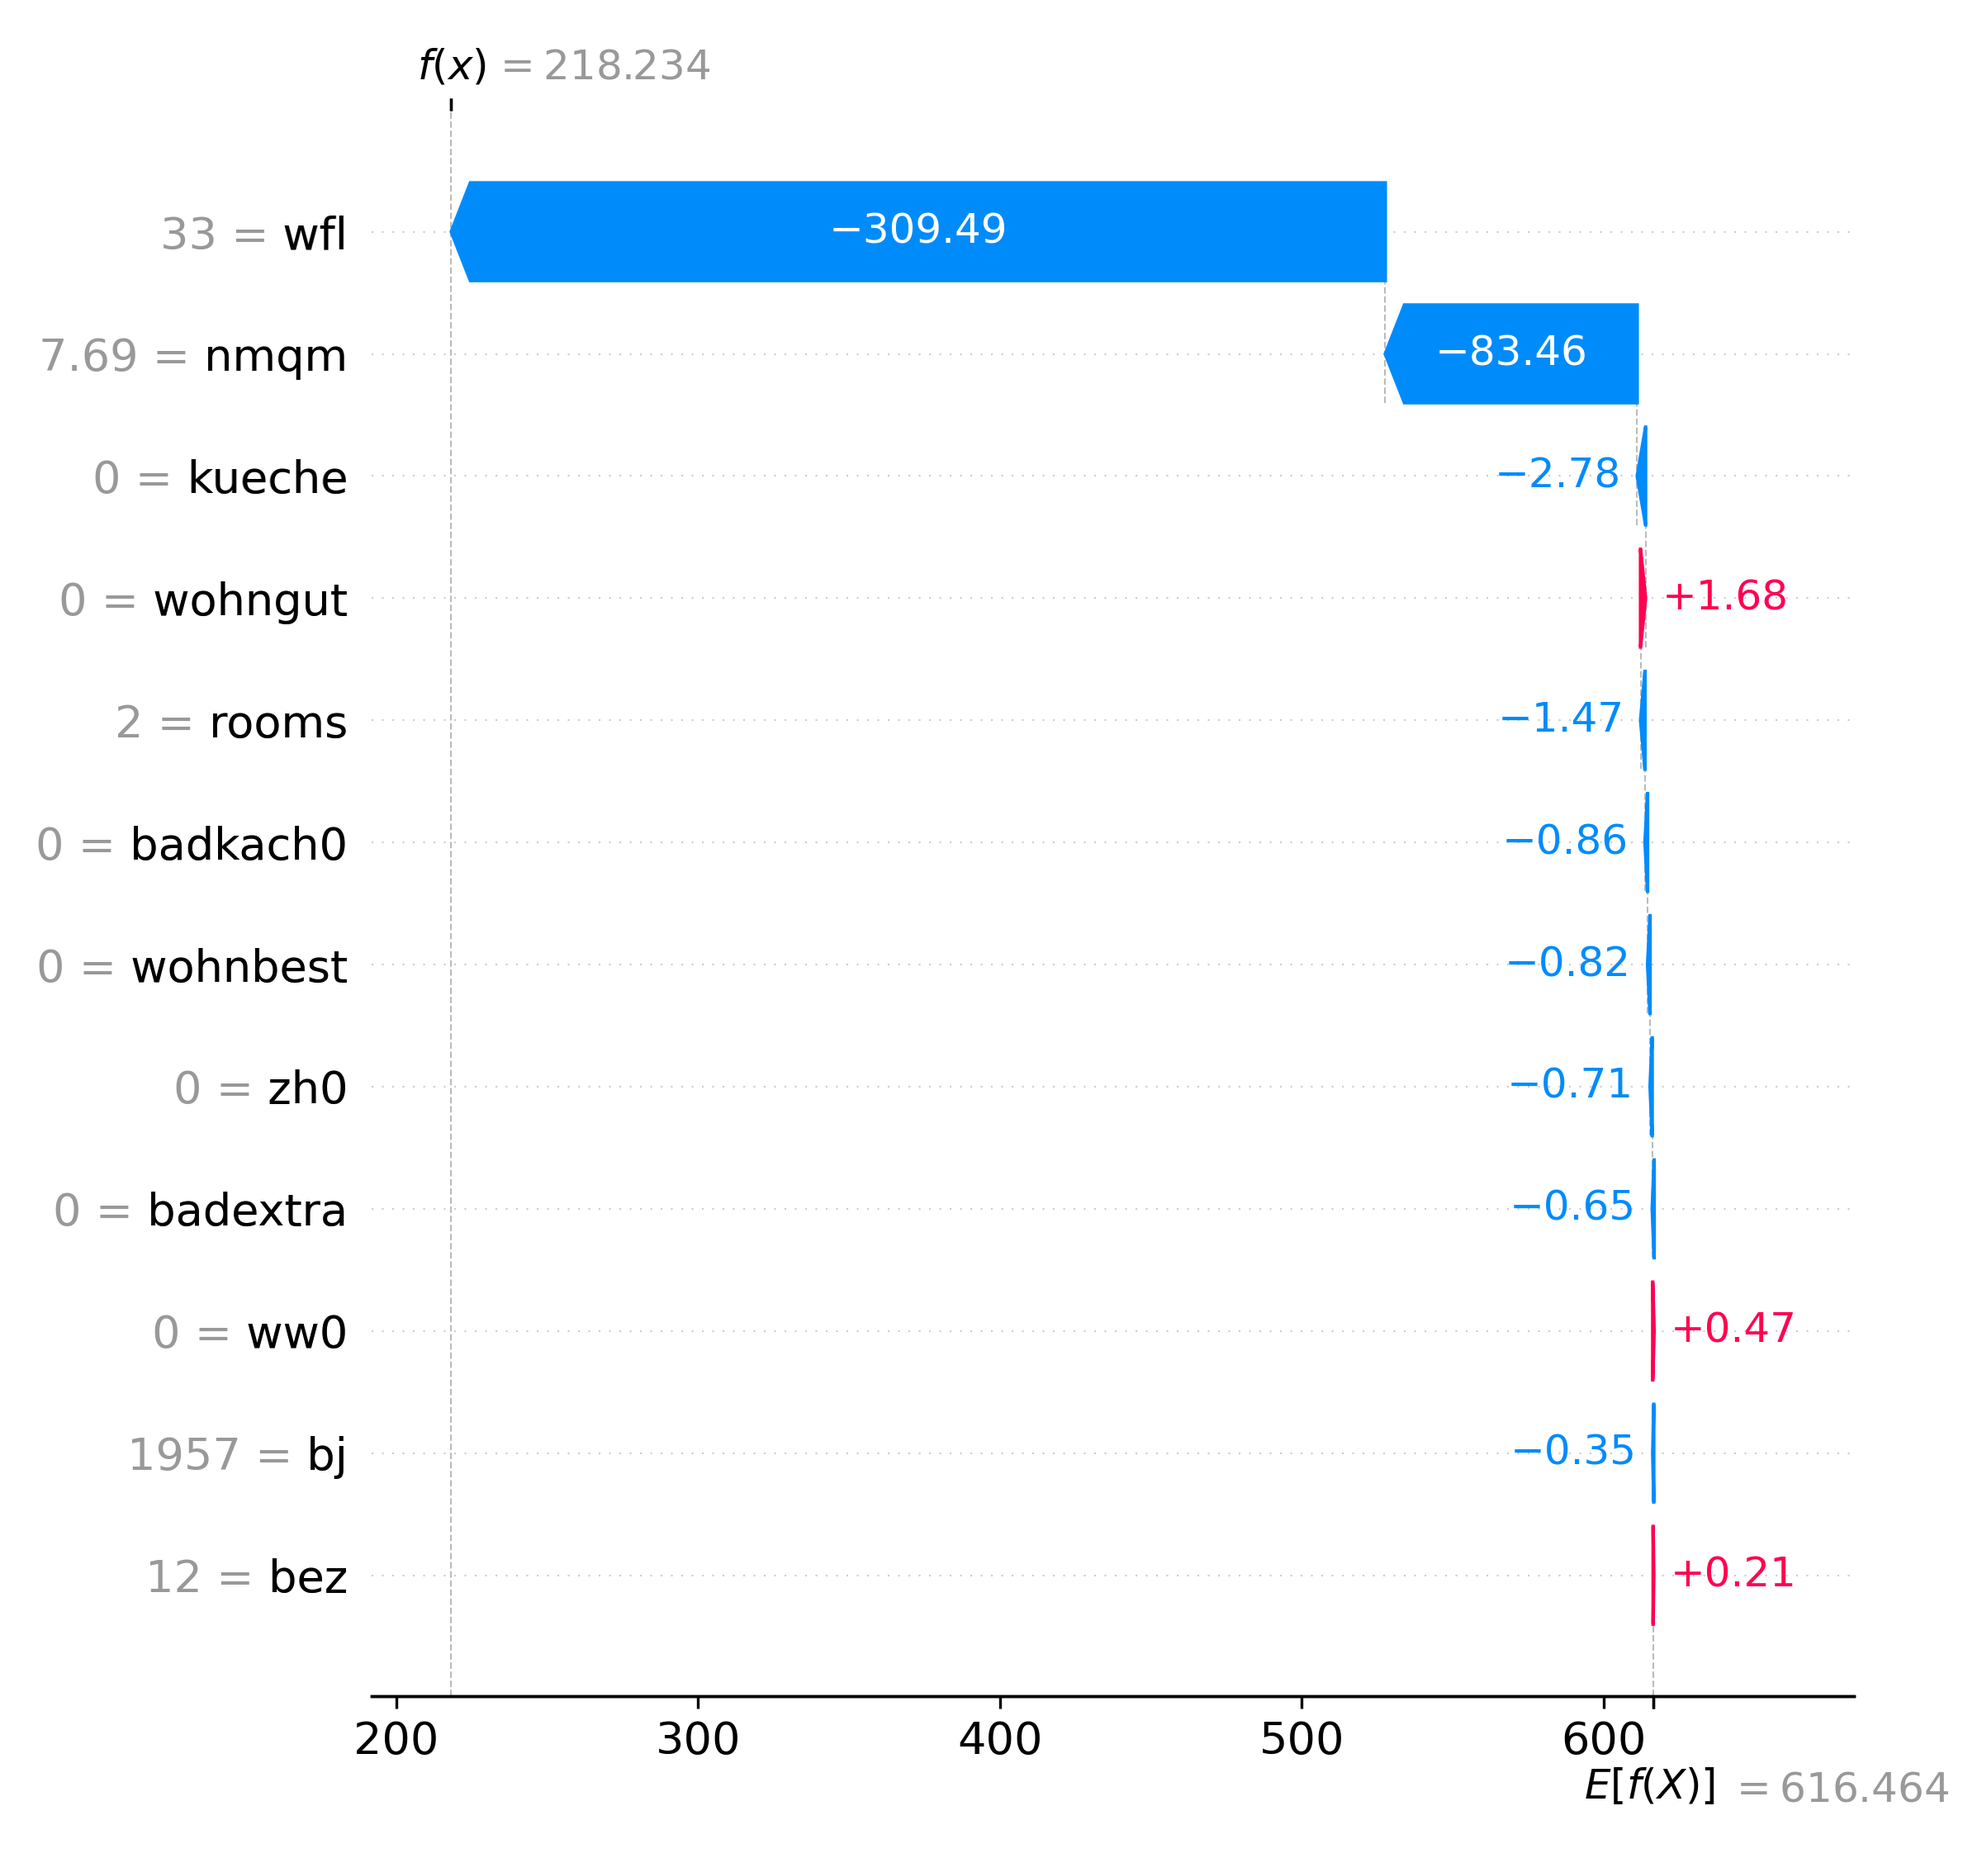
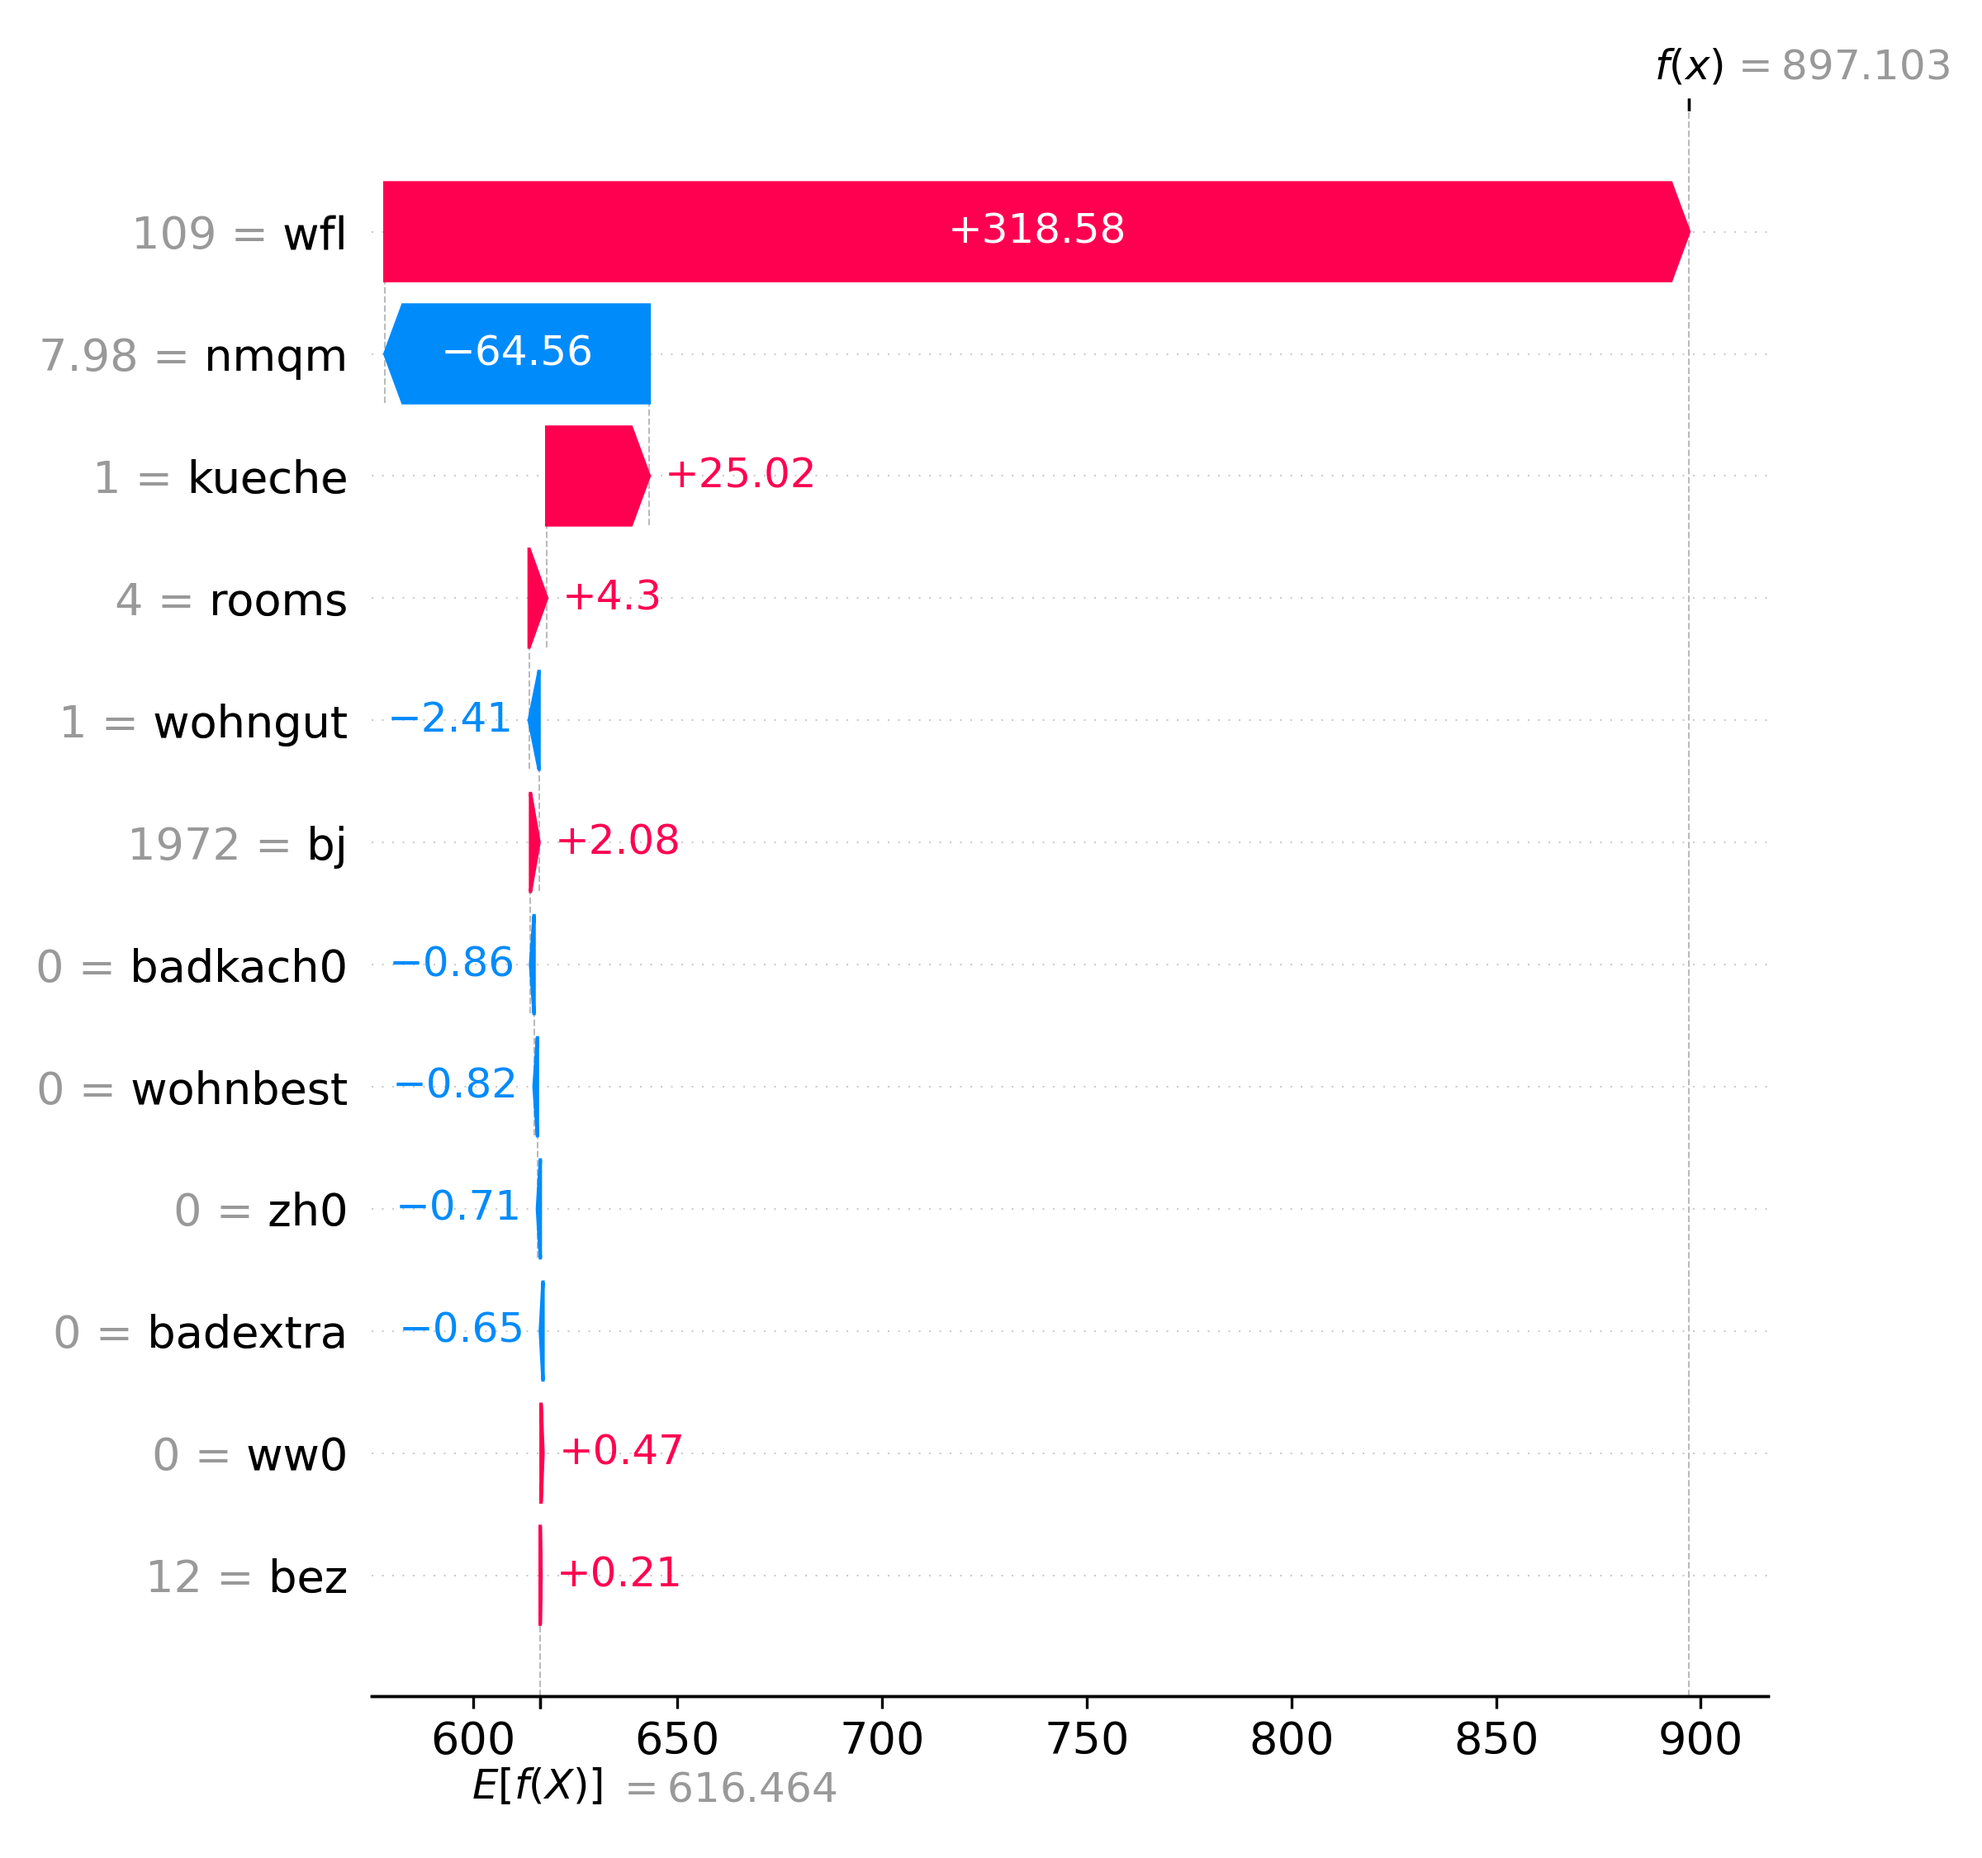
save again

diff --git a/scripts/linreg.py b/scripts/linreg.py
@@ -6,22 +6,47 @@ import seaborn as sns
 import shap
 from sklearn.linear_model import LinearRegression
 from sklearn.metrics import mean_absolute_error, r2_score, mean_squared_error
-import statsmodels.api as sm
-from sklearn.preprocessing import StandardScaler
 matplotlib.use('Agg')
 
 def load_data() -> pd.DataFrame:
+    """
+    Load and return the dataset from the given URL as a Pandas DataFrame.
+
+    Returns:
+        pd.DataFrame: The loaded dataset.
+    """
     url = "https://data.ub.uni-muenchen.de/2/1/miete03.asc"
     df = pd.read_csv(url, sep='\t')
     return df
     
-def model(X, y):
+def model(X: pd.DataFrame, y: pd.Series) -> (LinearRegression, pd.DataFrame):
+    """
+    Fit a Linear Regression model to the given data.
+
+    Args:
+        X (pd.DataFrame): The feature matrix.
+        y (pd.Series): The target variable.
+
+    Returns:
+        LinearRegression: The fitted Linear Regression model.
+        DataFrame: The coefficients as DataFrame.
+    """
     linreg = LinearRegression()
     linreg.fit(X, y)
 
-    return linreg
+    cdf = pd.DataFrame(linreg.coef_.round(5), X.columns, columns=['Coefficients'])
+    cdf.loc['Intercept'] = linreg.intercept_.round(5)
 
-def plot_residuals(y_test, y_pred):
+    return linreg, cdf
+
+def plot_residuals(y_test: pd.Series, y_pred: pd.Series) -> None:
+    """
+    Create a residual plots.
+
+    Args:
+        y_test (pd.Series): The actual target values.
+        y_pred (pd.Series): The predicted target values.
+    """
     residuals = y_test - y_pred
 
     _, axs = plt.subplots(1, 2, figsize=(16, 6))
@@ -40,26 +65,52 @@ def plot_residuals(y_test, y_pred):
 
     plt.savefig('images/residuals.png', dpi=300)
 
-def plot_corr(X):
+def plot_corr(X: pd.DataFrame) -> None:
+    """
+    Create and save a correlation heatmap plot.
+
+    Args:
+        X (pd.DataFrame): The feature matrix.
+    """
     plt.figure(figsize=(12,10))
     sns.heatmap(X.corr(), annot=True)
     plt.savefig('images/corr.png', dpi=300)
 
-def cdf(linreg, X):
-    cdf = pd.DataFrame(linreg.coef_.round(5), X.columns, columns=['Coefficients'])
-    cdf.loc['Intercept'] = linreg.intercept_.round(5)
-    return cdf
+def plot_shap(shap_values: shap.Explanation, idx: int) -> None:
+    """
+    Create and save SHAP summary and bar plots.
+
+    Args:
+        shap_values (shap.Explanation): SHAP values.
+        idx (int): Index for the SHAP waterfall plot.
+    """
+    plt.figure(figsize=(12,10))
+    shap.summary_plot(shap_values, X_test, max_display=12)
+    plt.tight_layout()
+    plt.savefig('images/shap_summary_plot.png', dpi=300)
+
+    plt.figure(figsize=(12,10))
+    shap.plots.bar(shap_values, max_display=12)
+    plt.tight_layout()
+    plt.savefig('images/shap_bar_plot.png', dpi=300)
+
+    plt.figure(figsize=(12,10))
+    shap.plots.waterfall(shap_values[idx], max_display=12)
+    plt.tight_layout()
+    plt.savefig('images/shap_waterfall_plot.png', dpi=300)
 
 df = load_data()
-plot_corr(X=df)
 
-X = df.drop(['nm'], axis=1)
+X = df.drop(['nm'], axis=1) 
 y = df['nm']
 
 X_train, X_test, y_train, y_test = train_test_split(X, y, test_size=0.20, random_state=42)
 
-linreg = model(X=X, y=y)
+linreg, params = model(X=X, y=y)
 y_pred = linreg.predict(X_test)
+
+explainer = shap.Explainer(linreg, X_train)
+shap_values = explainer(X_test)
 
 mae = mean_absolute_error(y_test, y_pred)
 mse = mean_squared_error(y_test, y_pred)
@@ -71,26 +122,8 @@ print(mse)
 print(train_score)
 print(test_score)
 
-print(cdf(linreg, X))
+print(params)
 
+plot_corr(X=df)
 plot_residuals(y_test=y_test, y_pred=y_pred)
-
-explainer = shap.Explainer(linreg, X_train)
-shap_values = explainer(X_test)
-
-plt.figure(figsize=(12,10))
-shap.summary_plot(shap_values, X_test, max_display=12)
-plt.tight_layout()
-plt.savefig('images/shap_summary_plot.png', dpi=300)
-
-
-plt.figure(figsize=(12,10))
-shap.plots.bar(shap_values, max_display=12)
-plt.tight_layout()
-plt.savefig('images/shap_bar_plot.png', dpi=300)
-
-
-plt.figure(figsize=(12,10))
-shap.plots.waterfall(shap_values[56], max_display=12)
-plt.tight_layout()
-plt.savefig('images/shap_waterfall_plot.png', dpi=300)
+plot_shap(shap_values=shap_values, idx=148)
